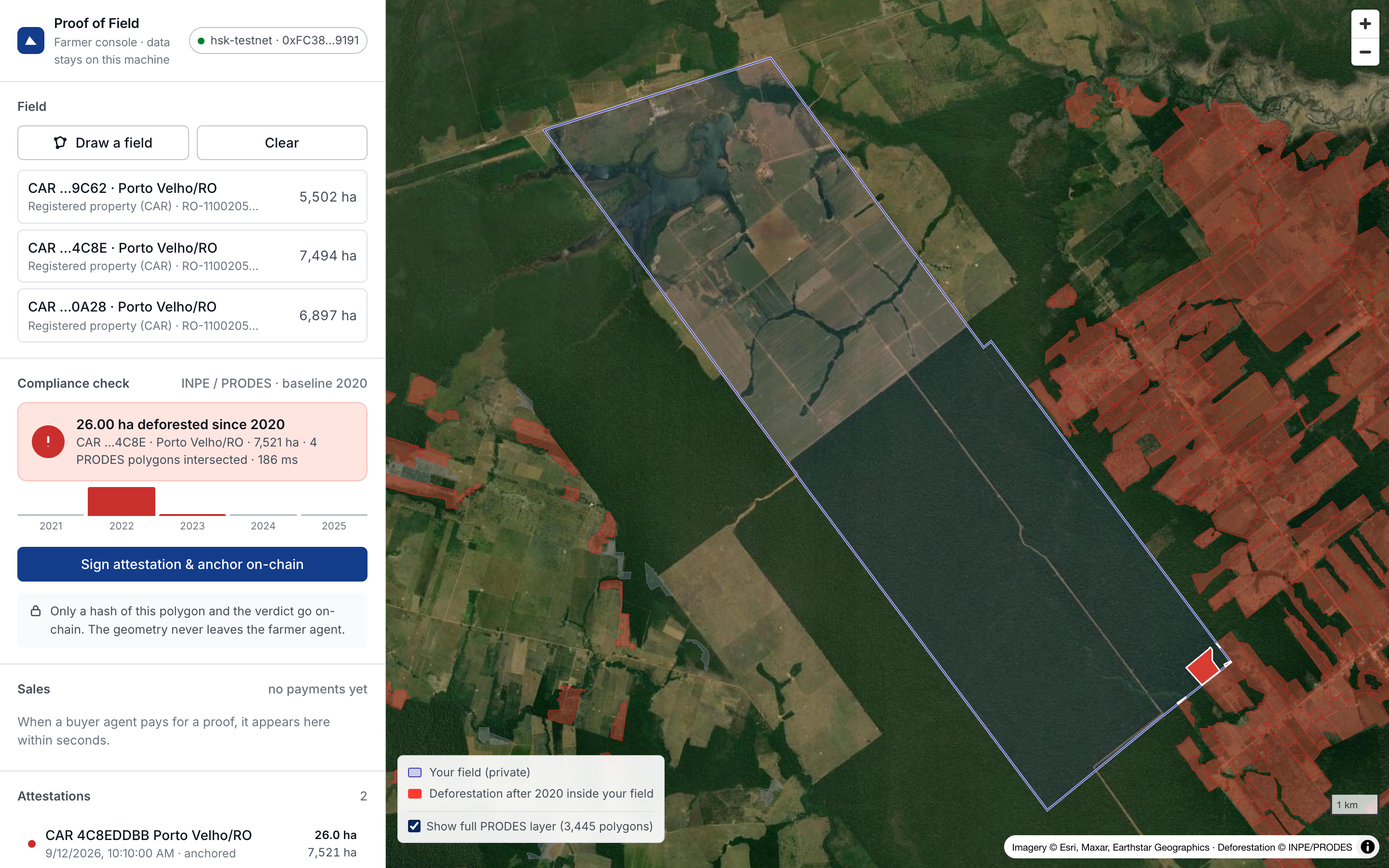
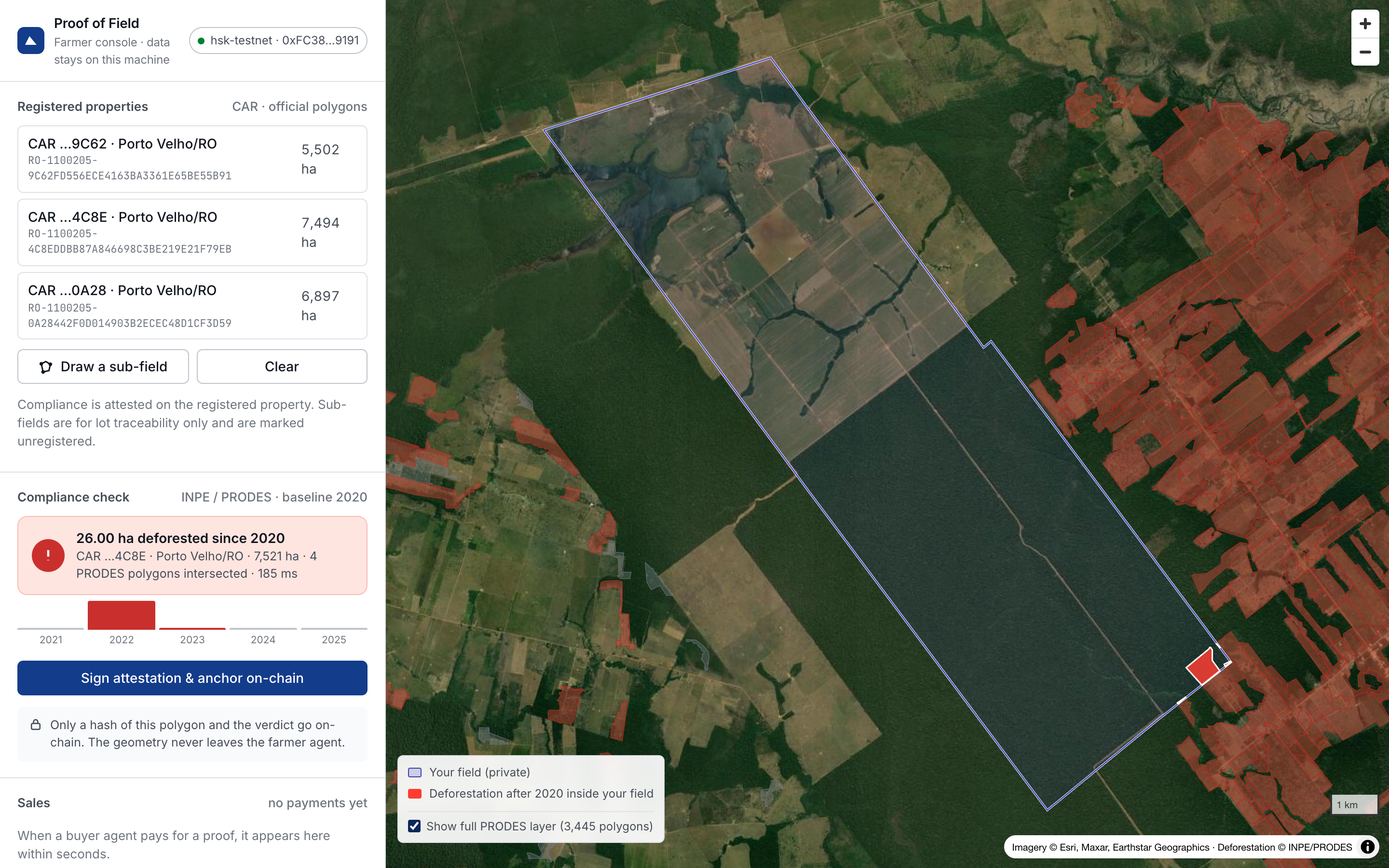
CAR-registered properties as primary path; attestations carry CAR receipt; buyer skips unregistered by default

diff --git a/apps/buyer-agent/src/lib/buy.ts b/apps/buyer-agent/src/lib/buy.ts
@@ -33,11 +33,11 @@ export async function policyStatus(): Promise<PolicyStatus> {
   return { agentWallet: dep.agentWallet, remainingTodayUnits: remaining.toString(), perPaymentLimitUnits: per.toString(), dailyLimitUnits: daily.toString(), balanceUnits: bal.toString() };
 }
 
-export interface ProofListing { hash: string; label?: string; farmer: string; compliant: boolean; areaHa: number; deforestedHa: number; byYear: Record<string, number>; priceUnits: string; proofUrl: string; anchored: boolean }
+export interface ProofListing { hash: string; label?: string; car: string | null; registered: boolean; farmer: string; compliant: boolean; areaHa: number; deforestedHa: number; byYear: Record<string, number>; priceUnits: string; proofUrl: string; anchored: boolean }
 export async function listProofs(farmerBaseUrl: string): Promise<ProofListing[]> {
   const base = farmerBaseUrl.replace(/\/$/, '');
   const list = await fetch(`${base}/attestations`).then((r) => r.json()) as any[];
-  return list.map((a) => ({ hash: a.hash, label: a.label, farmer: a.farmer, compliant: a.compliant, areaHa: +a.report.areaHa.toFixed(2), deforestedHa: +a.report.deforestedHa.toFixed(2), byYear: a.report.byYear, priceUnits: a.priceUnits, proofUrl: `${base}/proof/${a.hash}`, anchored: !!a.txHash }));
+  return list.map((a) => ({ hash: a.hash, label: a.label, car: a.car ?? null, registered: !!a.registered, farmer: a.farmer, compliant: a.compliant, areaHa: +a.report.areaHa.toFixed(2), deforestedHa: +a.report.deforestedHa.toFixed(2), byYear: a.report.byYear, priceUnits: a.priceUnits, proofUrl: `${base}/proof/${a.hash}`, anchored: !!a.txHash }));
 }
 
 export type Step = (n: number, s: string) => void;
@@ -48,7 +48,7 @@ export interface BuyResult {
   ok: true; proofUrl: string; paidUnits: string; payTx: string; payTxUrl: string;
   attestationHash: string; farmer: string; anchorTx?: string; anchorTxUrl?: string; anchoredAt: string;
   areaHa: number; deforestedHa: number; byYear: Record<string, number>; baselineYear: number; dataYear: number; source: string; issuedAt: string;
-  compliant: boolean; fieldId: string; checks: string[];
+  compliant: boolean; fieldId: string; checks: string[]; car: string | null; registered: boolean;
 }
 export class BuyError extends Error { constructor(public stage: string, msg: string) { super(msg); } }
 
@@ -103,6 +103,6 @@ export async function buyProof(url: string, log: Log = silentLog): Promise<BuyRe
     attestationHash: h, farmer: att.farmer, anchorTx: proof.anchorTx, anchorTxUrl: proof.anchorTxUrl, anchoredAt,
     areaHa: Number(att.areaHa100) / 100, deforestedHa: Number(att.deforestedHa100) / 100, byYear: report.byYear || {},
     baselineYear: Number(att.baselineYear), dataYear: Number(att.dataYear), source: att.source, issuedAt: new Date(Number(att.issuedAt) * 1000).toISOString(),
-    compliant: att.compliant, fieldId: att.fieldId, checks,
+    compliant: att.compliant, fieldId: att.fieldId, checks, car: proof.car ?? null, registered: !!proof.registered,
   };
 }

diff --git a/apps/web/src/App.tsx b/apps/web/src/App.tsx
@@ -92,24 +92,25 @@ export function App() {
 
         <div className="panel-body">
           <section className="section">
-            <h2>Field</h2>
-            <div className="btn-row">
-              <button className="btn btn-secondary" aria-pressed={drawing} onClick={() => { reset(); setDrawing((d) => !d); }}>
-                <svg width="15" height="15" viewBox="0 0 16 16" fill="none" stroke="currentColor" strokeWidth="1.6"><path d="M3 4.5 8 2l5 3-1.5 7L5 13.5z" /><circle cx="3" cy="4.5" r="1.2" fill="currentColor" /><circle cx="13" cy="5" r="1.2" fill="currentColor" /><circle cx="5" cy="13.5" r="1.2" fill="currentColor" /></svg>
-                {drawing ? 'Drawing… (Esc to cancel)' : 'Draw a field'}
-              </button>
-              {field && <button className="btn btn-secondary" onClick={reset}>Clear</button>}
-            </div>
+            <h2>Registered properties <span className="count">CAR · official polygons</span></h2>
             {samples.length > 0 && (
               <div className="samples">
                 {samples.map((s) => (
                   <button key={s.id} className="sample" onClick={() => runCheck(s.geometry, s.label)} title={s.car}>
-                    <div><div className="name">{s.label}</div><div className="meta">Registered property (CAR) · {s.car.slice(0, 10)}…</div></div>
+                    <div><div className="name">{s.label}</div><div className="meta">{s.car}</div></div>
                     <div className="ha">{fmtHa(s.areaHaCar)}</div>
                   </button>
                 ))}
               </div>
             )}
+            <div className="btn-row" style={{ marginTop: 10 }}>
+              <button className="btn btn-secondary" aria-pressed={drawing} onClick={() => { reset(); setDrawing((d) => !d); }}>
+                <svg width="15" height="15" viewBox="0 0 16 16" fill="none" stroke="currentColor" strokeWidth="1.6"><path d="M3 4.5 8 2l5 3-1.5 7L5 13.5z" /><circle cx="3" cy="4.5" r="1.2" fill="currentColor" /><circle cx="13" cy="5" r="1.2" fill="currentColor" /><circle cx="5" cy="13.5" r="1.2" fill="currentColor" /></svg>
+                {drawing ? 'Drawing… (Esc to cancel)' : 'Draw a sub-field'}
+              </button>
+              {field && <button className="btn btn-secondary" onClick={reset}>Clear</button>}
+            </div>
+            <div className="empty" style={{ marginTop: 6 }}>Compliance is attested on the registered property. Sub-fields are for lot traceability only and are marked unregistered.</div>
           </section>
 
           {(phase !== 'idle') && (

diff --git a/apps/farmer-agent/src/index.ts b/apps/farmer-agent/src/index.ts
@@ -49,6 +49,7 @@ interface Stored {
   geometry: any;      // PRIVATE — never served
   intersections: any; // PRIVATE — served only to the farmer's own UI
   label?: string;
+  car?: string;       // CAR receipt when the polygon is the registered property (public registry)
   createdAt: string;
 }
 const STORE = path.join(ROOT, 'data', `farmer-store.${NETWORK}.${dep.registry.slice(2, 10)}.json`);
@@ -71,6 +72,8 @@ app.get('/prodes', (c) => c.json(prodes));
 /** Farmer's own registered properties (CAR polygons). PRIVATE — local UI only. */
 const samples = JSON.parse(fs.readFileSync(path.join(ROOT, 'data', 'samples.json'), 'utf8'));
 app.get('/samples', (c) => c.json(samples));
+/** fieldId → CAR receipt, so attestations of registered properties carry the registry reference. */
+const carByFieldId = new Map<string, string>(samples.map((s: any) => [fieldIdFromPolygon(s.geometry).toLowerCase(), s.car]));
 
 app.get('/attestations', (c) => c.json(Object.values(store).map(publicView)));
 
@@ -123,8 +126,9 @@ app.post('/attest', async (c) => {
     console.error('[farmer] anchor failed:', e.shortMessage || e.message);
   }
 
+  const car = carByFieldId.get(att.fieldId.toLowerCase());
   const stored: Stored = {
-    attestation: att, signature, hash, txHash,
+    attestation: att, signature, hash, txHash, car,
     report: { areaHa: r.areaHa, deforestedHa: r.deforestedHa, byYear: r.byYear, hits: r.hits.length, dataYear: r.dataYear, ms: r.ms },
     geometry, intersections: r.intersections, label, createdAt: new Date().toISOString(),
   };
@@ -178,11 +182,13 @@ app.get('/proof/:hash', async (c) => {
       registry: dep.registry, chainId: chain.id,
     },
     report: s.report, // aggregate numbers only — no geometry
+    car: s.car ?? carByFieldId.get(s.attestation.fieldId.toLowerCase()) ?? null, registered: !!(s.car ?? carByFieldId.get(s.attestation.fieldId.toLowerCase())),
   });
 });
 
 function publicView(s: Stored) {
-  return { hash: s.hash, label: s.label, farmer: s.attestation.farmer, compliant: s.attestation.compliant, report: s.report,
+  const car = s.car ?? carByFieldId.get(s.attestation.fieldId.toLowerCase()) ?? null;
+  return { hash: s.hash, label: s.label, car, registered: !!car, farmer: s.attestation.farmer, compliant: s.attestation.compliant, report: s.report,
     attestation: serializeAttestation(s.attestation), signature: s.signature, txHash: s.txHash, txUrl: s.txHash ? explorerTx(NETWORK, s.txHash) : undefined, createdAt: s.createdAt, priceUnits: PRICE.toString() };
 }
 

diff --git a/apps/buyer-agent/src/agent.ts b/apps/buyer-agent/src/agent.ts
@@ -40,7 +40,7 @@ const tools = [
     run: async ({ farmerBaseUrl }) => {
       tool('list_proofs', farmerBaseUrl);
       const list = await listProofs(farmerBaseUrl);
-      list.forEach((p) => dim(`      ${p.compliant ? 'COMPLIANT    ' : 'NON-COMPLIANT'} ${p.label || p.hash.slice(0, 12)}  ${p.areaHa} ha  ${p.deforestedHa} ha deforested  ${usdt(p.priceUnits)}`));
+      list.forEach((p) => dim(`      ${p.compliant ? 'COMPLIANT    ' : 'NON-COMPLIANT'} ${p.registered ? 'CAR ' : 'unregistered '}${p.label || p.hash.slice(0, 12)}  ${p.areaHa} ha  ${p.deforestedHa} ha deforested  ${usdt(p.priceUnits)}`));
       return JSON.stringify(list.map((p) => ({ ...p, price: usdt(p.priceUnits) })));
     },
   }),
@@ -100,6 +100,7 @@ Facts about your environment:
 - Proofs are sold over x402: an HTTP 402 with the price, paid in USDT, then the signed proof is delivered. buy_proof does the whole flow and verifies the proof cryptographically and on-chain. Trust its verification result, not the farmer's claims.
 - A proof marked NON-COMPLIANT is still a valid, verifiable proof. Whether to buy it depends on the operator's instruction (some operators want the evidence, most want to skip it).
 - Prices are what the farmer asks. You never negotiate; you decide buy or skip.
+- A proof is "registered: true" when its polygon is the farmer's official CAR property (Brazil's rural environmental registry, public). Compliance for a lot is judged on registered properties. A proof with "registered: false" is a hand-drawn sub-field: it may be useful for traceability but does NOT clear a lot on its own. Default: skip unregistered proofs and say why, unless the operator explicitly asks for sub-field proofs.
 
 How to work:
 1. Read the operator instruction carefully. Extract: which farms/lot, budget, and the compliance rule.

diff --git a/apps/web/src/styles.css b/apps/web/src/styles.css
@@ -63,7 +63,7 @@ code, .mono { font-family: var(--mono); font-size: 12px; }
 .sample { display: flex; align-items: center; gap: 10px; padding: 8px 10px; border: 1px solid var(--line); border-radius: var(--r-sm); background: var(--bg); cursor: pointer; text-align: left; transition: border-color .15s var(--ease), background .15s var(--ease); }
 .sample:hover { border-color: var(--line-strong); background: var(--panel); }
 .sample .name { font-weight: 500; }
-.sample .meta { color: var(--ink-3); font-size: 12px; }
+.sample .meta { color: var(--ink-3); font-size: 11px; font-family: var(--mono); }
 .sample .ha { margin-left: auto; color: var(--ink-2); font-variant-numeric: tabular-nums; }
 
 /* ---------- result ---------- */

diff --git a/docs/PITCH.md b/docs/PITCH.md
@@ -72,7 +72,8 @@ Fallback if HSK is down: run everything with `NETWORK=anvil` (identical, no expl
 
 - **"Why blockchain? This works with a database and a bank transfer."** Two reasons. First, the buyer is a program. It has no bank account and cannot make a transfer. A stablecoin is the only way one machine pays another. Second, the public registry lets any buyer, bank or auditor verify the proof without trusting me or a certifier.
 - **"PRODES is public. Why doesn't the trader just check it themselves?"** They don't have the farm polygon. What they are buying is the farmer's permission plus his signature saying "this is my area, verified on this date." The farmer stays the owner of the data and decides who gets access.
-- **"What if the farmer lies about the polygon?"** The fieldId is the hash of the polygon. If he draws a different area than the one he sells, the buyer can require selective disclosure (on the roadmap) or cross-check against the CAR registry. Today the proof is "the farmer signed that this area X has Y hectares deforested according to INPE." Like a signed declaration, but verifiable and cheap.
+- **"Can't the farmer just draw the polygon around the deforested corner?"** Not for compliance. Compliance is judged on the **registered property** (CAR, Brazil's public rural registry), and the attestation of a registered property carries the CAR number and the hash of the *official* polygon. Any buyer can download the public CAR polygon, hash it, and see it matches `fieldId`: nothing was cut out. Hand-drawn fields are marked `registered: false`; the buyer agent skips them for compliance by default and only uses them for sub-field traceability. It did that on its own this morning: it flagged a drawn field as "no CAR reference".
+- **"What if the farmer lies in other ways?"** He can't change the INPE data, and he can't change the polygon without changing the hash. What he could do is sign with a key that isn't the property owner's. Binding the farmer key to the CAR owner (a KYC'd attestation from the registry or a bank) is the natural next step.
 - **"Is 5 USDT a real price?"** Illustrative. The mechanism is what we are showing. Today the trader pays, because the legal obligation is on the importer, per query. It could be the bank, or a subscription.
 - **"Why HSK Chain?"** EVM, cheap, a sponsor, and the target buyer side is in Asia. The contracts are chain-agnostic.
 - **"Is this real x402?"** The 402 body and `accepts[]` follow x402 v1. Settlement today is an on-chain transfer referenced by tx hash. EIP-3009 gasless settlement is the next step.
